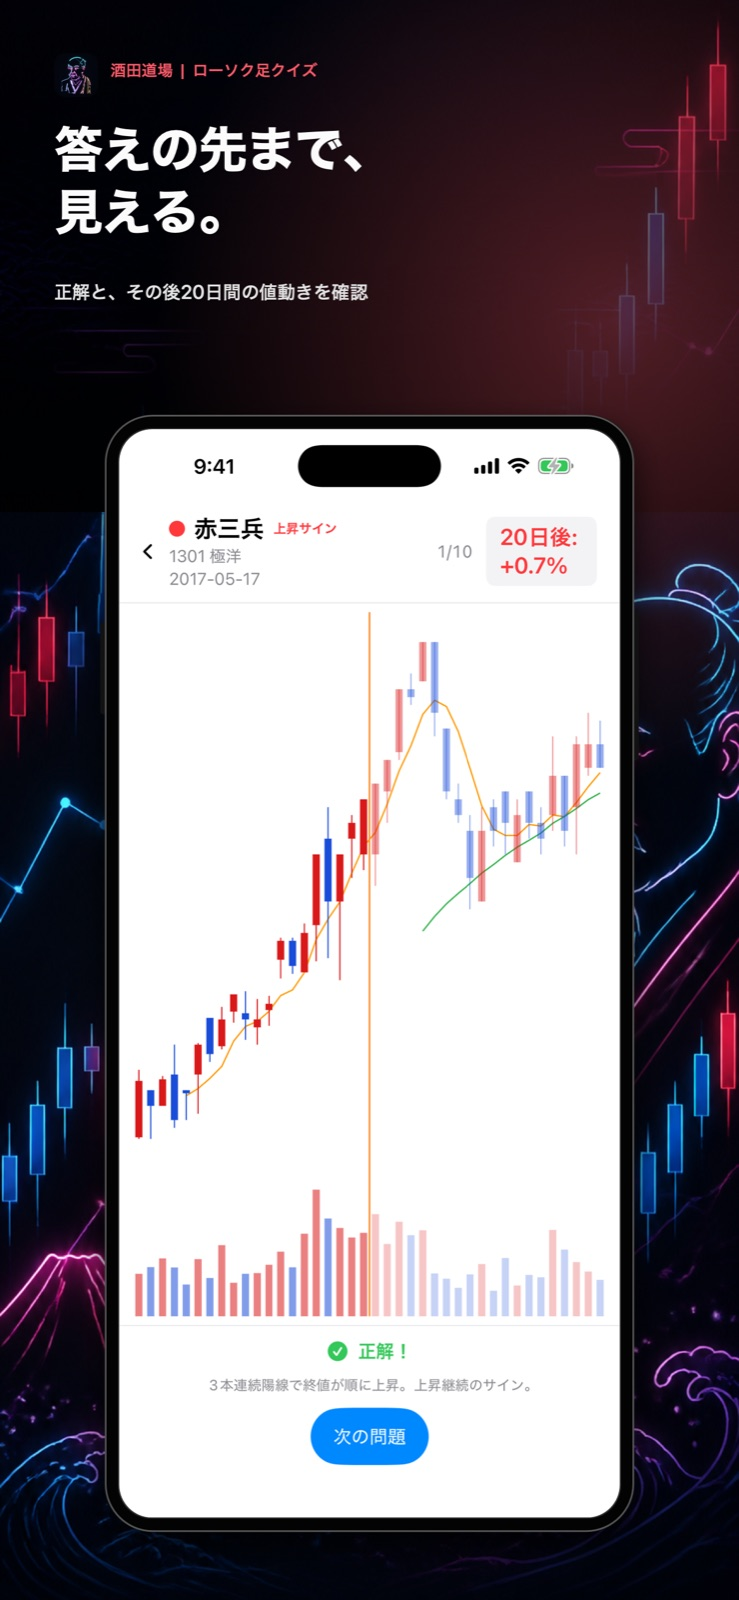
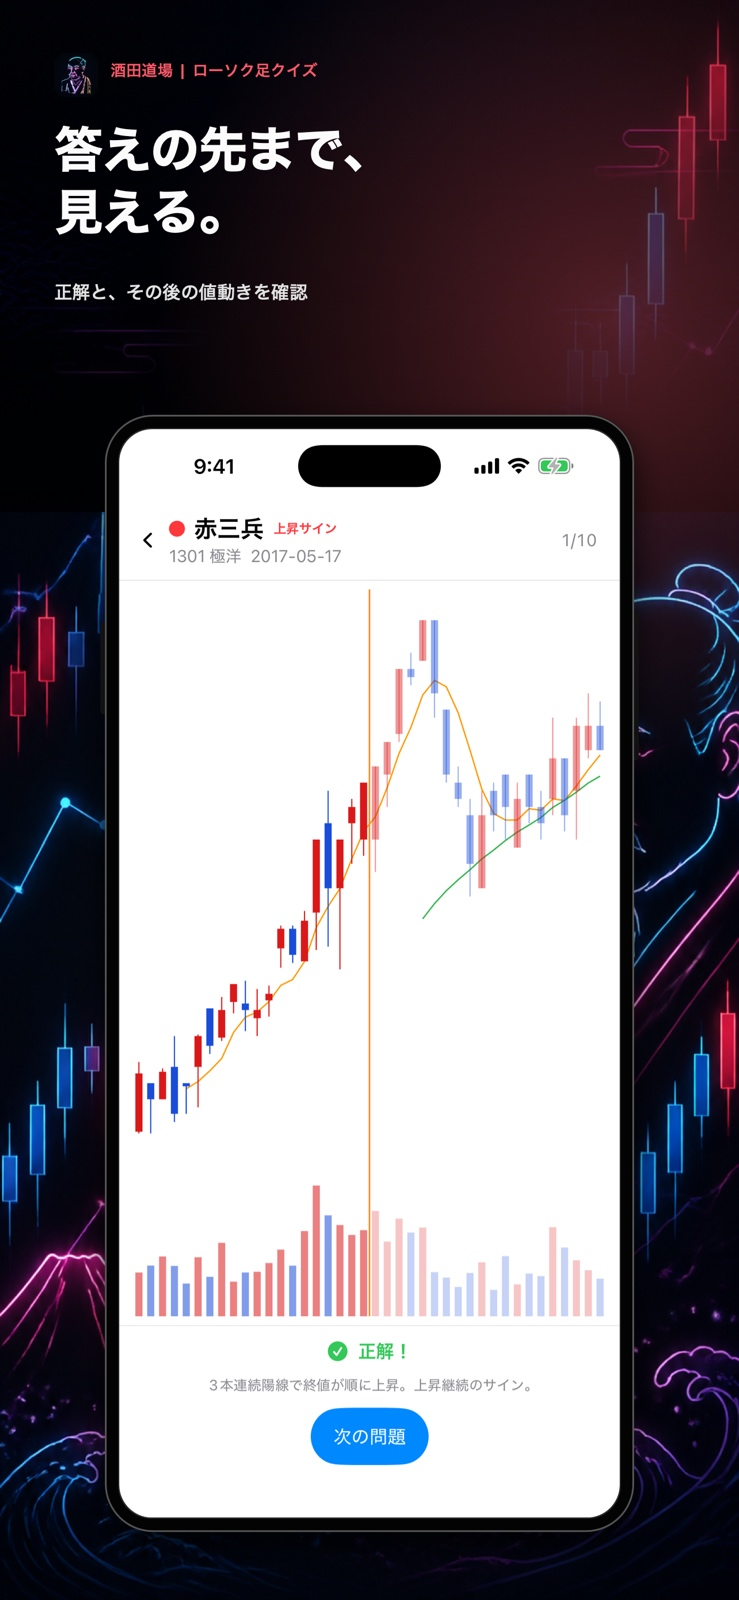
坂田道場のページを修正

diff --git a/detail/sakataDojo.html b/detail/sakataDojo.html
@@ -643,8 +643,8 @@
           <div class="learning-copy"><small>01 — READ</small><h3>自分の目で見抜く</h3><p>パターン名を伏せた実例から、その後に上がるか下がるかを予測します。</p></div>
         </article>
         <article class="learning-card" style="--accent:var(--magenta)">
-          <div class="learning-media" style="--card-glow:rgba(255,78,203,.24)"><img src="../image/SakataDojo/04_answer.jpg?v=3" alt="正解とパターン成立後の値動きを確認する画面" loading="lazy" width="739" height="1600" /></div>
-          <div class="learning-copy"><small>02 — CHECK</small><h3>答えの先まで確認</h3><p>正解と解説に加えて、成立後20日間の値動きまで同じ画面で振り返れます。</p></div>
+          <div class="learning-media" style="--card-glow:rgba(255,78,203,.24)"><img src="../image/SakataDojo/04_answer.jpg?v=4" alt="正解とパターン成立後の値動きを確認する画面" loading="lazy" width="739" height="1600" /></div>
+          <div class="learning-copy"><small>02 — CHECK</small><h3>答えの先まで確認</h3><p>正解と解説に加えて、成立後の値動きまで同じ画面で振り返れます。</p></div>
         </article>
         <article class="learning-card" style="--accent:var(--gold)">
           <div class="learning-media" style="--card-glow:rgba(255,186,69,.22)"><img src="../image/SakataDojo/05_study.jpg?v=3" alt="ローソク足パターンを一覧できる図鑑画面" loading="lazy" width="739" height="1600" /></div>
@@ -681,7 +681,7 @@
         <figure><img src="../image/SakataDojo/01_title.jpg?v=2" alt="酒田道場の出題形式と問題数選択画面" loading="lazy" width="739" height="1600" /><figcaption>2つの出題形式</figcaption></figure>
         <figure><img src="../image/SakataDojo/02_direction.jpg?v=2" alt="チャートを見て上昇か下落かを選ぶクイズ画面" loading="lazy" width="739" height="1600" /><figcaption>上昇／下落クイズ</figcaption></figure>
         <figure><img src="../image/SakataDojo/03_pattern.jpg?v=2" alt="ローソク足パターン名を4択で答える画面" loading="lazy" width="739" height="1600" /><figcaption>パターン名4択</figcaption></figure>
-        <figure><img src="../image/SakataDojo/04_answer.jpg?v=2" alt="正解とパターン成立後の値動きを表示した画面" loading="lazy" width="739" height="1600" /><figcaption>答えとその後</figcaption></figure>
+        <figure><img src="../image/SakataDojo/04_answer.jpg?v=4" alt="正解とパターン成立後の値動きを表示した画面" loading="lazy" width="739" height="1600" /><figcaption>答えとその後</figcaption></figure>
         <figure><img src="../image/SakataDojo/05_study.jpg?v=2" alt="ローソク足30パターンを一覧できる図鑑画面" loading="lazy" width="739" height="1600" /><figcaption>30パターン図鑑</figcaption></figure>
       </div>
     </section>
